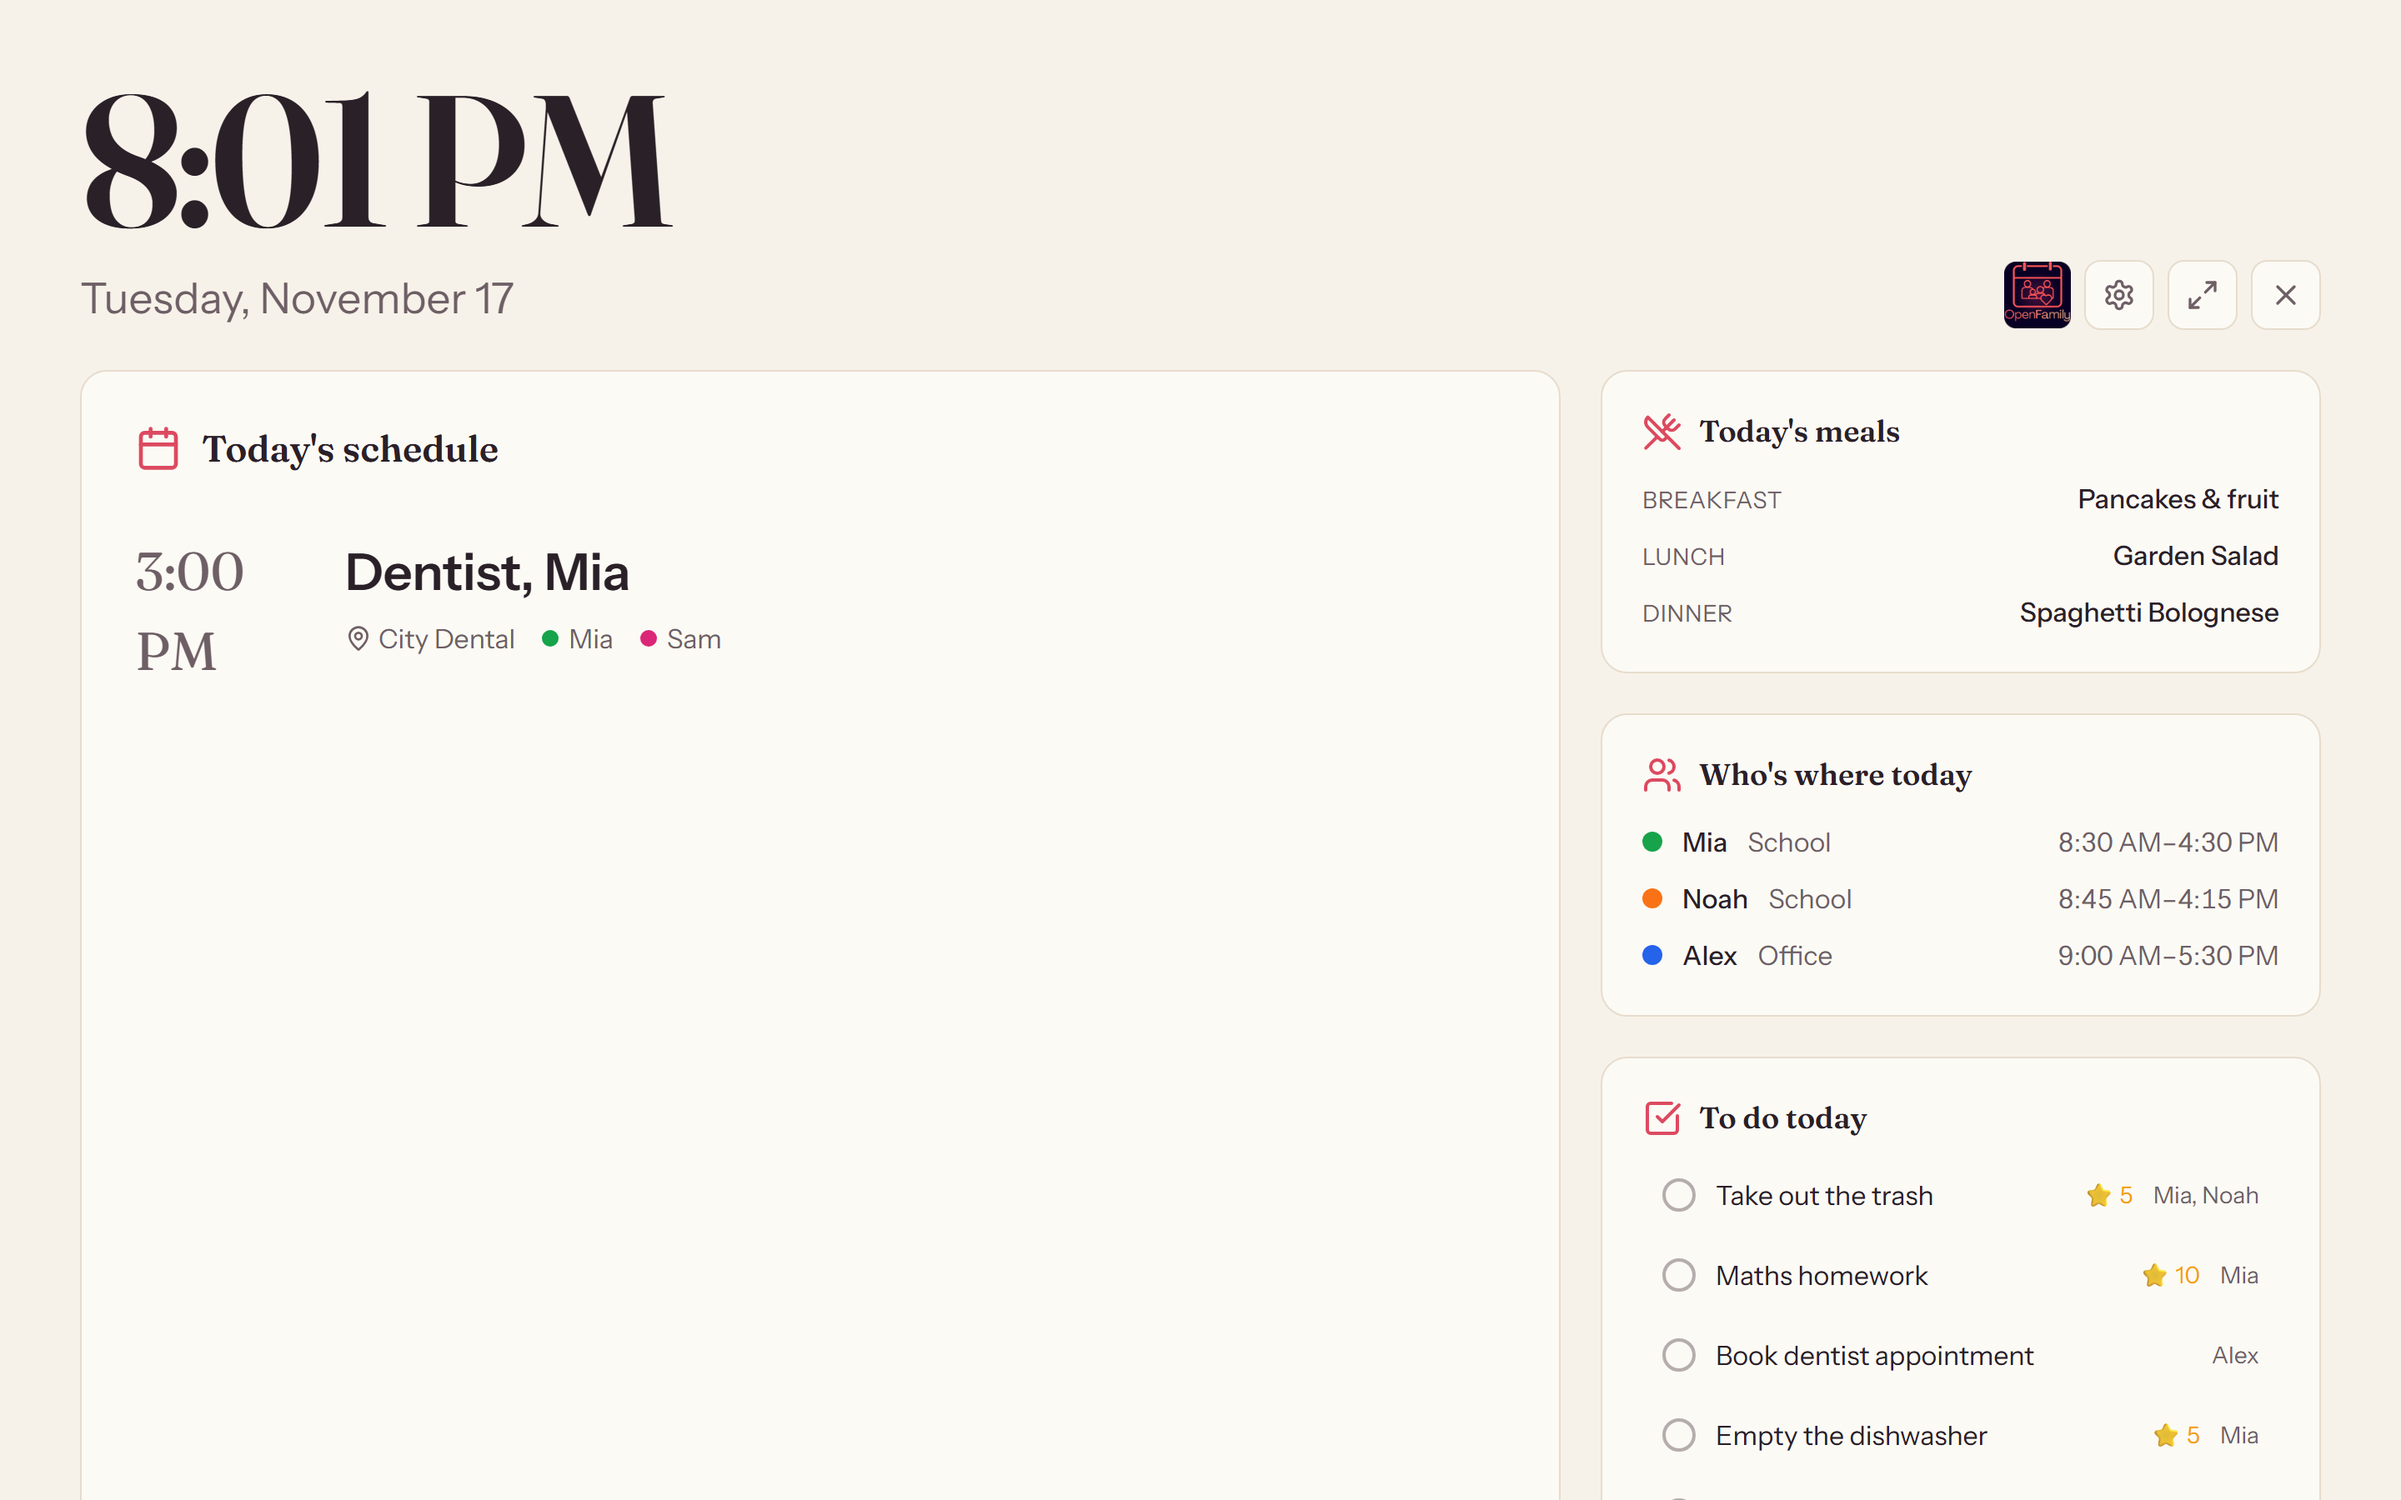
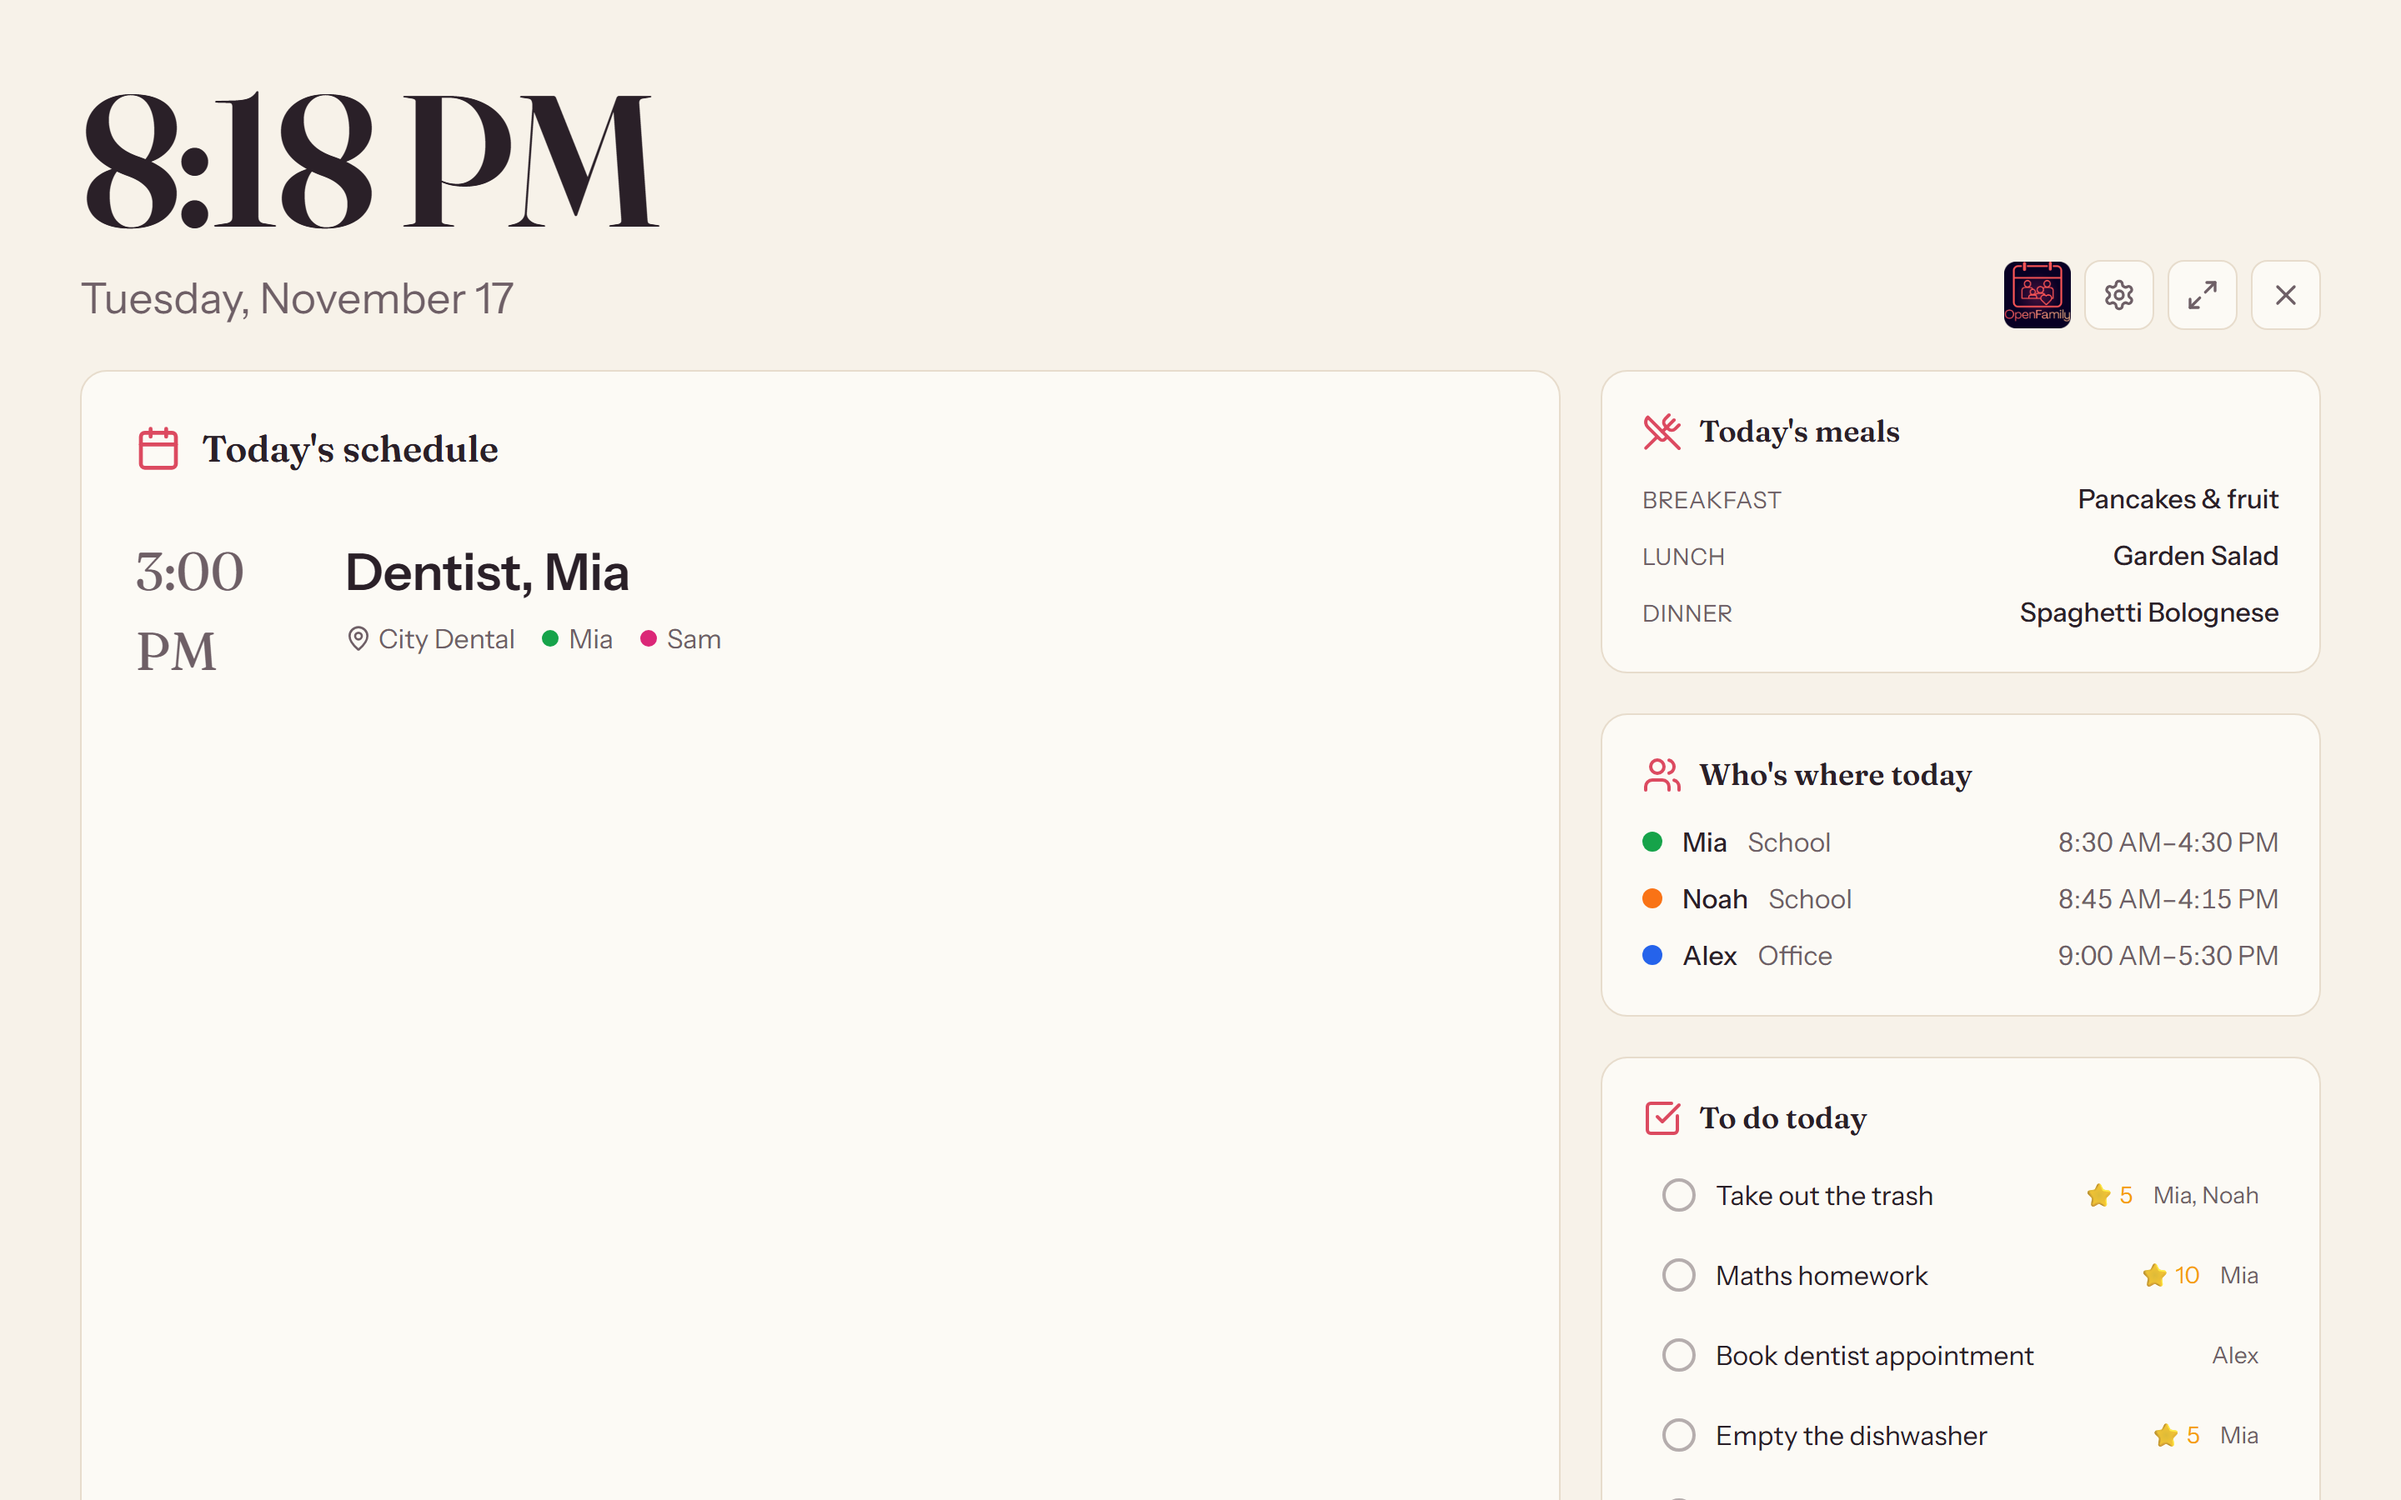
fix(ui): narrow phones, where a month, a category or a name was still cut
Seen at 360 pixels wide, the width of many Android phones:

- calendar: the month stays on one line, its three buttons go below it
  when they do not fit beside it
- budget: an entry keeps its category whole, the date goes under it
- settings: the name of a category is readable next to its three buttons
- pantry: a label on two lines no longer pushes its field out of line

The screenshots follow.

Changed region(s): [[0.0625, 0.0622, 0.2812, 0.1556]]

diff --git a/client/src/pages/Settings.tsx b/client/src/pages/Settings.tsx
@@ -606,22 +606,23 @@ const CategoriesCard: React.FC<{ isParent: boolean }> = ({ isParent }) => {
 
                         <div className="mt-3 space-y-2">
                             {rows.map((row, index) => (
-                                <div key={`${row.original ?? 'new'}-${index}`} className="flex items-center gap-1 sm:gap-2">
+                                <div key={`${row.original ?? 'new'}-${index}`} className="flex items-center gap-0.5 sm:gap-2">
+                                    {/* On a phone the three buttons tighten so the name stays readable. */}
                                     <Input
                                         value={row.value}
                                         disabled={!isParent || saving}
                                         onChange={(e) => setRows((prev) => prev.map((r, i) => (i === index ? { ...r, value: e.target.value, touched: true } : r)))}
-                                        className="flex-1"
+                                        className="px-2 sm:px-3"
                                     />
-                                    <Button type="button" variant="ghost" size="sm" className="px-2.5 sm:px-4" disabled={!isParent || saving || index === 0}
+                                    <Button type="button" variant="ghost" size="sm" className="px-2 sm:px-4" disabled={!isParent || saving || index === 0}
                                         onClick={() => move(index, -1)} aria-label={t('categories:moveUp')}>
                                         <ArrowUp className="h-4 w-4" />
                                     </Button>
-                                    <Button type="button" variant="ghost" size="sm" className="px-2.5 sm:px-4" disabled={!isParent || saving || index === rows.length - 1}
+                                    <Button type="button" variant="ghost" size="sm" className="px-2 sm:px-4" disabled={!isParent || saving || index === rows.length - 1}
                                         onClick={() => move(index, 1)} aria-label={t('categories:moveDown')}>
                                         <ArrowDown className="h-4 w-4" />
                                     </Button>
-                                    <Button type="button" variant="ghost" size="sm" className="px-2.5 sm:px-4" disabled={!isParent || saving || rows.length <= 1}
+                                    <Button type="button" variant="ghost" size="sm" className="px-2 sm:px-4" disabled={!isParent || saving || rows.length <= 1}
                                         onClick={() => setRows((prev) => prev.filter((_, i) => i !== index))} aria-label={t('categories:remove')}>
                                         <Trash2 className="h-4 w-4 text-destructive" />
                                     </Button>

diff --git a/client/src/pages/Calendar.tsx b/client/src/pages/Calendar.tsx
@@ -836,14 +836,16 @@ const Calendar: React.FC = () => {
             {/* Calendar Header */}
             <Card>
                 <CardContent className="p-3 sm:p-6">
-                    <div className="flex items-center justify-between gap-2 mb-4 sm:mb-6">
-                        <h2 className="min-w-0 text-h2 font-semibold capitalize">
+                    {/* The month stays whole: on a narrow phone the three buttons go below it. */}
+                    <div className="mb-4 flex flex-wrap items-center justify-between gap-2 sm:mb-6">
+                        <h2 className="whitespace-nowrap text-h2 font-semibold capitalize">
                             {format(currentDate, 'MMMM yyyy', { locale: dateLocale() })}
                         </h2>
-                        <div className="flex flex-shrink-0 gap-2">
+                        <div className="ml-auto flex flex-shrink-0 gap-2">
                             <Button
                                 variant="secondary"
                                 size="sm"
+                                className="px-2.5 sm:px-4"
                                 onClick={() => setCurrentDate(subMonths(currentDate, 1))}
                             >
                                 <ChevronLeft className="w-4 h-4" />
@@ -851,7 +853,7 @@ const Calendar: React.FC = () => {
                             <Button
                                 variant="secondary"
                                 size="sm"
-                                className="whitespace-nowrap"
+                                className="px-3 sm:px-4"
                                 onClick={() => setCurrentDate(new Date())}
                             >
                                 {t('common:actions.today')}
@@ -859,6 +861,7 @@ const Calendar: React.FC = () => {
                             <Button
                                 variant="secondary"
                                 size="sm"
+                                className="px-2.5 sm:px-4"
                                 onClick={() => setCurrentDate(addMonths(currentDate, 1))}
                             >
                                 <ChevronRight className="w-4 h-4" />

diff --git a/client/src/pages/Pantry.tsx b/client/src/pages/Pantry.tsx
@@ -292,7 +292,7 @@ const Pantry: React.FC = () => {
                     <CardTitle>{t('pantry:add.title')}</CardTitle>
                 </CardHeader>
                 <CardContent>
-                    <form onSubmit={add} className="grid grid-cols-2 gap-3 md:grid-cols-12 md:gap-4 xl:grid-cols-2 xl:gap-3">
+                    <form onSubmit={add} className="grid grid-cols-2 items-end gap-3 md:grid-cols-12 md:gap-4 xl:grid-cols-2 xl:gap-3">
                         <div className="col-span-2 md:col-span-12 xl:col-span-2">
                             <div className="flex items-end gap-2">
                                 <div className="min-w-0 flex-1">
@@ -411,7 +411,7 @@ const Pantry: React.FC = () => {
                 title={t('pantry:edit.title')}
                 description={editing?.name ?? ''}
             >
-                <form onSubmit={saveEdit} className="grid grid-cols-2 gap-3">
+                <form onSubmit={saveEdit} className="grid grid-cols-2 items-end gap-3">
                     {fields(editForm, setEditForm, 'pantry-edit', false)}
                     <div className="col-span-2 flex justify-end gap-2">
                         <Button type="button" variant="secondary" onClick={() => setEditing(null)}>{t('common:actions.cancel')}</Button>

diff --git a/client/src/pages/Budget.tsx b/client/src/pages/Budget.tsx
@@ -1224,14 +1224,15 @@ const EntryRow: React.FC<{
                 <p className="font-medium text-base truncate">
                     {entry.description || categoryLabel(entry.category)}
                 </p>
-                <div className="flex items-center gap-2 mt-0.5">
+                {/* On a narrow phone the date goes under the category, both whole. */}
+                <div className="mt-0.5 flex flex-wrap items-center gap-x-2">
                     {entry.description && (
                         <>
-                            <span className="text-xs text-muted-foreground">{categoryLabel(entry.category)}</span>
+                            <span className="whitespace-nowrap text-xs text-muted-foreground">{categoryLabel(entry.category)}</span>
                             <span className="text-xs text-muted-foreground">·</span>
                         </>
                     )}
-                    <span className="text-xs text-muted-foreground">{dateStr}</span>
+                    <span className="whitespace-nowrap text-xs text-muted-foreground">{dateStr}</span>
                 </div>
             </div>
             <span className={`text-base font-bold flex-shrink-0 ${entry.is_expense ? 'text-danger' : 'text-success'}`}>
